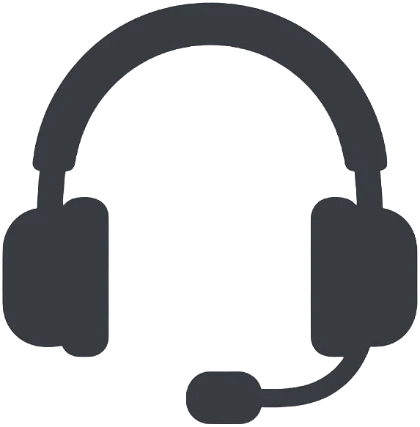
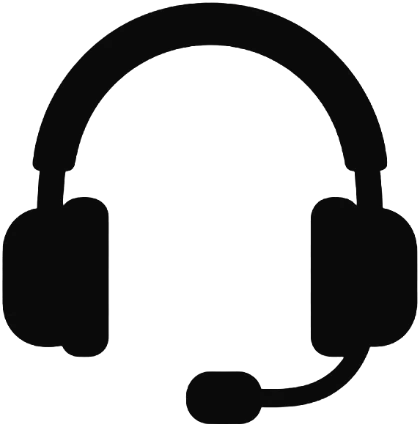
Phone palette: black 0A0A0A, white FFFFFF, orange FF5A00

diff --git a/client/src/styles/mobile.css b/client/src/styles/mobile.css
@@ -15,44 +15,226 @@
 .ptoast span { color: var(--c-muted); font-size: 14px; }
 @keyframes ptoast-in { from { transform: translate(-50%, -20px); opacity: 0; } }
 
-/* Фирменная палитра телефона: жёлтый F5CE0D, тёмный 121519, белый FFFFFF */
+/* Палитра телефона: только чёрный 0A0A0A, белый FFFFFF и оранжевый FF5A00.
+   Серые оттенки — это те же чёрный и белый с прозрачностью. */
 @media (max-width: 1023px) {
   :root {
-    --c-primary: #F5CE0D;
-    --c-focus: #F5CE0D;
-    --c-on-primary: #121519;
-    --c-ink: #121519;
+    --c-bg: #FFFFFF;
     --c-surface: #FFFFFF;
-    --c-active: #FFFFFF;
-    --plate-ink: #121519;
-    --plate-strip: #121519;
+    --c-ink: #0A0A0A;
+    --c-muted: rgb(10 10 10 / .55);
+    --c-line: rgb(10 10 10 / .08);
+    --c-line-strong: rgb(10 10 10 / .16);
+    --c-row-hover: rgb(10 10 10 / .04);
+    --c-soft: rgb(10 10 10 / .05);
+    --c-primary: #FF5A00;
+    --c-on-primary: #FFFFFF;
+    --c-signal: #FF5A00;
+    --c-ok: #0A0A0A;
+    --c-danger: #FF5A00;
+    --c-danger-solid: #FF5A00;
+    --c-focus: #FF5A00;
+    --c-nav: #FFFFFF;
+    --c-active: rgb(10 10 10 / .05);
+    --plate-bg: #FFFFFF;
+    --plate-ink: #0A0A0A;
+    --plate-strip: #0A0A0A;
+    --c-orange-soft: rgb(255 90 0 / .14);
+    --c-solid-soft: #F2F2F2;
+    --bar-expense: #0A0A0A;
+
+    --mf-bg: #FFFFFF; --mf-card: #FFFFFF; --mf-line: rgb(10 10 10 / .08);
+    --mf-ink: #0A0A0A; --mf-text: #0A0A0A; --mf-muted: rgb(10 10 10 / .55);
+    --mf-grid: rgb(10 10 10 / .08); --mf-zero: rgb(10 10 10 / .25);
+    --mf-chip: #0A0A0A; --mf-chip-hover: rgb(10 10 10 / .85); --mf-chip-ink: #FFFFFF;
+    --mf-pop: #FFFFFF; --mf-pop-ink: #0A0A0A; --mf-hover: rgb(10 10 10 / .05); --mf-disabled: rgb(10 10 10 / .3); --mf-day: #0A0A0A;
+    --mf-pop-shadow: 0 16px 40px rgb(10 10 10 / .14), 0 0 0 1px rgb(10 10 10 / .08);
   }
   :root[data-theme='dark'] {
-    --c-bg: #121519;
-    --c-surface: #1B1F25;
+    --c-bg: #0A0A0A;
+    --c-surface: #0A0A0A;
     --c-ink: #FFFFFF;
-    --c-muted: #9AA0A8;
-    --c-line: #262B32;
-    --c-line-strong: #333942;
-    --c-row-hover: #20252C;
-    --c-soft: #20252C;
-    --c-nav: #121519;
-    --c-active: #1B1F25;
+    --c-muted: rgb(255 255 255 / .55);
+    --c-line: rgb(255 255 255 / .08);
+    --c-line-strong: rgb(255 255 255 / .16);
+    --c-row-hover: rgb(255 255 255 / .05);
+    --c-soft: rgb(255 255 255 / .08);
+    --c-ok: #FFFFFF;
+    --c-nav: #0A0A0A;
+    --c-active: rgb(255 255 255 / .08);
+    --c-orange-soft: rgb(255 90 0 / .2);
+    --c-solid-soft: color-mix(in srgb, #FFFFFF 12%, #0A0A0A);
+    --bar-expense: #FFFFFF;
+
+    --mf-bg: var(--c-surface); --mf-card: var(--c-surface); --mf-line: rgb(255 255 255 / .16);
+    --mf-ink: #FFFFFF; --mf-text: #FFFFFF; --mf-muted: rgb(255 255 255 / .55);
+    --mf-grid: rgb(255 255 255 / .16); --mf-zero: rgb(255 255 255 / .3);
+    --mf-chip: color-mix(in srgb, #FFFFFF 12%, #0A0A0A); --mf-chip-hover: color-mix(in srgb, #FFFFFF 18%, #0A0A0A); --mf-chip-ink: #FFFFFF;
+    --mf-pop: color-mix(in srgb, #FFFFFF 14%, #0A0A0A); --mf-pop-ink: #FFFFFF; --mf-hover: color-mix(in srgb, #FFFFFF 20%, #0A0A0A); --mf-disabled: rgb(255 255 255 / .3); --mf-day: #FFFFFF;
+    --mf-pop-shadow: 0 16px 40px rgb(10 10 10 / .5);
   }
-  [data-theme='dark'] .ct { --ct-box: #20252C; }
-  [data-theme='dark'] .ct:hover .ct__visual,
-  [data-theme='dark'] .chip:not(.chip--on),
-  [data-theme='dark'] .status,
-  [data-theme='dark'] .avatar,
-  [data-theme='dark'] .modal__close { background: #262B32; }
-  [data-theme='dark'] thead th,
-  [data-theme='dark'] .sel__panel { background: #1E2329; }
-  [data-theme='dark'] .ct__edit,
-  [data-theme='dark'] .sel__item--active { background: #2C323A; }
-  [data-theme='dark'] .chip--on,
-  [data-theme='dark'] .chip--on:hover { color: #121519; }
-  :root[data-theme='dark'] { --mf-bg: #1B1F25; --mf-card: #1B1F25; --mf-line: #333942; --mf-chip: #262B32; --mf-chip-hover: #2C323A; --mf-pop: #2C323A; --mf-hover: #363D46; }
+
+  /* Кнопки */
+  :root .btn:hover,
+  :root .btn--danger:hover,
+  :root .btn--report:hover { background: color-mix(in srgb, #FF5A00 88%, #0A0A0A); }
+  :root .btn--quiet:hover,
+  :root .btn--ghost:hover,
+  :root .chip:hover,
+  :root .nav__link:hover { background: var(--c-soft); }
+  :root .btn--danger { color: #FFFFFF; }
+  :root .btn--ok,
+  :root .btn--ok:hover { background: var(--c-ink); color: var(--c-bg); }
+  :root .btn--report { background: #FF5A00; color: #FFFFFF; animation: none; box-shadow: 0 6px 18px -6px rgb(255 90 0 / .7); }
+  :root .btn--report__plus { background: #FFFFFF; color: #FF5A00; }
+
+  /* Номер машины */
+  :root .plate { background: #FFFFFF; color: #0A0A0A; border-color: #0A0A0A; }
+  :root .plate__num, :root .plate__region { border-color: #0A0A0A; }
+  :root .plate__stripe--blue,
+  :root .plate__stripe--green { background: #0A0A0A; }
+  :root .plate__flag b { color: #0A0A0A; }
+  :root[data-theme='dark'] .plate { box-shadow: 0 0 0 1px #FFFFFF; }
+
+  /* Статусы и метки: оранжевый — внимание и долг, чёрный/белый — норма */
+  :root .status { background: var(--c-soft); color: var(--c-ink); }
+  :root .status--wait,
+  :root .badge--wait,
+  :root .badge--warn,
+  :root .tx__icon--warn,
+  :root .tx__icon--out,
+  :root .notice--error,
+  :root .notice--idle,
+  :root .pay-status--wait,
+  :root .cpick__status--rent,
+  :root .rs-cell--part { background: var(--c-orange-soft); color: #FF5A00; }
+  :root .status--bad,
+  :root .badge--danger,
+  :root .pay-status--unpaid,
+  :root .rs-cell--unpaid,
+  :root .car-tab__count--alert { background: #FF5A00; color: #FFFFFF; }
+  :root .status--done,
+  :root .badge--ok,
+  :root .tx__icon--in,
+  :root .notice--ok,
+  :root .cpick__status,
+  :root .rs-cell--ahead { background: var(--c-soft); color: var(--c-ink); }
+  :root .status--fixed,
+  :root .badge--muted,
+  :root .avatar--muted { background: var(--c-soft); color: var(--c-muted); }
+  :root .rs-cell--paid { background: var(--c-ink); color: var(--c-bg); }
+  :root .rs-dot--paid { background: var(--c-ink); }
+  :root .rs-dot--part { background: rgb(255 90 0 / .45); }
+  :root .rs-dot--unpaid { background: #FF5A00; }
+  :root .rs-dot--ahead { background: var(--c-soft); border-color: var(--c-ink); }
+  :root .rs-hero { color: #FFFFFF; }
+  :root .rs-hero--bad { background: #FF5A00; }
+  :root .rs-hero--ok { background: #0A0A0A; }
+  :root[data-theme='dark'] .rs-hero--ok { background: var(--c-solid-soft); }
+  :root .stat--accent .stat__label,
+  :root .stat--accent .stat__hint,
+  :root .stat--accent .stat__value small { color: rgb(255 255 255 / .8); }
+  :root .stat--accent .stat__value { color: #FFFFFF; }
+
+  /* Карточки, календарь, переключатели */
+  :root .ct { --ct-box: var(--c-solid-soft); }
+  :root .ct:hover .ct__visual { background: var(--c-solid-soft); }
+  :root .ct--alert .ct__visual { box-shadow: inset 0 0 0 2px #FF5A00; }
+  :root .ct__edit { background: var(--c-surface); color: var(--c-ink); }
+  :root .ct__edit:hover { background: var(--c-solid-soft); }
+  :root .car-card:hover,
+  :root a.person:hover,
+  :root .person--link:hover { border-color: var(--c-line-strong); box-shadow: 0 6px 18px rgb(10 10 10 / .08); }
+  :root .car-card--alert { border-color: #FF5A00; }
+  :root .avatar { background: var(--c-soft); color: var(--c-ink); }
+  :root .panel--yellow { background: var(--c-orange-soft); border-color: rgb(255 90 0 / .4); }
+  :root .seg { background: var(--c-soft); }
+  :root .seg__btn { color: var(--c-muted); }
+  :root .seg__btn--on { background: var(--c-ink); color: var(--c-bg); box-shadow: none; }
+  :root .chip { background: var(--c-surface); border-color: var(--c-line-strong); color: var(--c-ink); }
+  :root .chip--on,
+  :root .chip--on:hover { background: var(--c-ink); border-color: var(--c-ink); color: var(--c-bg); }
+  :root .cal__day--on,
+  :root .cal__day--on:hover:not(:disabled) { background: #FF5A00; color: #FFFFFF; }
+  :root .cal__day--new { box-shadow: inset 0 0 0 2px var(--c-ink); }
+  :root .cal__day--idle,
+  :root .cal__day--idle:hover:not(:disabled) { background: var(--c-orange-soft); color: #FF5A00; }
+  :root .dh__item--now .dh__dot { background: #FF5A00; box-shadow: 0 0 0 4px rgb(255 90 0 / .18); }
+  :root .dh__item--hit .dh__body { box-shadow: inset 3px 0 0 #FF5A00; }
+  :root .bar--expense { background: var(--bar-expense); }
+  :root .tx--pending { background: linear-gradient(90deg, var(--c-orange-soft), transparent); }
+  :root .modal__close { background: var(--c-soft); color: var(--c-ink); }
+  :root[data-theme='dark'] .modal__panel { background: var(--c-surface); }
+  :root .table__th,
+  :root thead th { background: var(--c-solid-soft); }
+  :root .sel__panel { background: var(--c-surface); }
+  :root .sel__item--active { background: var(--c-soft); }
+  :root .sel__item--on.sel__item--active { background: var(--c-orange-soft); }
+
+  /* Месячные показатели */
+  :root .mf-delta--up { color: var(--c-ink); }
+  :root .mf-delta--down { color: #FF5A00; }
+  :root .mf-bar--in { background: var(--c-ink); }
+  :root .mf-bar--out { background: #FF5A00; }
+  :root .mf-alert { background: #FF5A00; color: #FFFFFF; }
+
+  /* Колокольчик и баннер обновления */
+  :root .bell { background: var(--c-ink); color: var(--c-bg); }
+  :root .bell--active { box-shadow: 0 0 0 3px var(--c-bg), 0 0 0 5px var(--c-ink); }
+  :root .bell__count { background: #FF5A00; color: #FFFFFF; }
+  :root .update-banner { background: #0A0A0A; color: #FFFFFF; }
+  :root[data-theme='dark'] .update-banner { box-shadow: 0 0 0 1px rgb(255 255 255 / .16); }
+
+  /* Экраны водителя */
+  :root .dsec__icon--tg,
+  :root .dsec__icon--map { background: var(--c-ink); color: var(--c-bg); }
+  :root .dnet:not(.dnet--minus) { background: var(--c-ink); color: var(--c-bg); }
+  :root .dnet--minus { background: #FF5A00; color: #FFFFFF; }
+  :root .pushcard:not(.pushcard--muted) { background: #FF5A00; color: #FFFFFF; box-shadow: 0 8px 22px rgb(255 90 0 / .25); }
+  :root .pushcard__error { color: #0A0A0A; }
+  :root .pushcard__btn { background: #0A0A0A; border-color: #0A0A0A; color: #FFFFFF; }
+  :root .pushguide__num { background: #FF5A00; color: #FFFFFF; }
+  :root .pushguide__key { background: var(--c-surface); color: #FF5A00; }
+  :root .pushguide__arrow { color: #FF5A00; text-shadow: 0 2px 10px rgb(10 10 10 / .5); }
+  :root .earn-actions .earn-actions__in { background: var(--c-ink); border-color: var(--c-ink); color: var(--c-bg); }
+  :root .earn-actions .earn-actions__out { background: #FF5A00; border-color: #FF5A00; color: #FFFFFF; }
+  :root .shero { background: #FF5A00; color: #FFFFFF; box-shadow: 0 12px 28px rgb(255 90 0 / .28); }
+  :root .shero__btn { background: var(--c-ink); border-color: var(--c-ink); color: var(--c-bg); }
+  html:root .eitem__icon,
+  html:root .kind-btn--on { background: var(--c-orange-soft); }
+  html:root .shero__btn { background: var(--c-ink); border-color: var(--c-ink); color: var(--c-bg); }
+  :root[data-theme='dark'] .person { border-color: var(--c-line-strong); }
+  :root .person .avatar { background: var(--c-soft); color: var(--c-ink); }
+  :root .person .avatar--muted { background: var(--c-soft); color: var(--c-muted); }
+  :root .eitem__plus { color: var(--c-ink); }
+  :root .qchip--on { color: #FFFFFF; }
+  :root .kmbadge { background: var(--c-soft); }
+  :root .kmbadge b { color: var(--c-ink); }
+  :root .kmbadge--bad { background: var(--c-orange-soft); color: #FF5A00; }
+  :root .mweek__col > span:not(.mweek__empty) { background: #FF5A00; }
+  :root .stoast { background: #0A0A0A; color: #FFFFFF; }
+  :root[data-theme='dark'] .stoast { box-shadow: 0 0 0 1px rgb(255 255 255 / .16), 0 12px 30px rgb(10 10 10 / .5); }
+  :root .stoast__check { background: #FF5A00; }
+  :root .odo { background: #0A0A0A; box-shadow: 0 0 0 3px #FF5A00; }
+  :root .odo__cell { background: #0A0A0A; color: #FFFFFF; box-shadow: inset 0 0 0 1px rgb(255 255 255 / .12); }
+  :root .odo__cell::after { background: none; }
+  :root .odo__cell--lead,
+  :root .odo--ghost .odo__cell { color: rgb(255 255 255 / .35); }
+  :root .kgauge__needle line { stroke: #FF5A00; }
+  :root .xhead,
+  :root .xhead--gas,
+  :root .xhead--charge,
+  :root .xhead--wash,
+  :root .xhead--lunch,
+  :root .xhead--other { --k: #FF5A00; }
+  :root .xhead__per { color: var(--c-ink); }
+  :root .tank__fill,
+  :root .tank__fill--gas,
+  :root .tank__fill--charge { background: #FF5A00; }
+  :root .msuccess__check { background: #FF5A00; color: #FFFFFF; box-shadow: 0 0 0 0 rgb(255 90 0 / .5); animation: bigCheck .6s cubic-bezier(.3, 1.8, .5, 1) both, ring-o 1.2s .3s ease-out; }
+  :root .msuccess__km { color: #FF5A00; }
 }
+@keyframes ring-o { to { box-shadow: 0 0 0 28px rgb(255 90 0 / 0); } }
 
 @media (max-width: 1023px) {
   .topbar {
@@ -131,10 +313,10 @@
   .mtile__img[src$='/cars.webp'] { width: 100%; }
   .mtile__img[src$='/summary.webp'],
   .mtile__img[src$='/drivers.webp'],
-  .mtile__img[src$='/cars.webp'] { filter: drop-shadow(0 0 .6px rgb(18 21 25 / .35)) drop-shadow(0 0 .6px rgb(18 21 25 / .35)); }
+  .mtile__img[src$='/cars.webp'] { filter: drop-shadow(0 0 .6px rgb(10 10 10 / .35)) drop-shadow(0 0 .6px rgb(10 10 10 / .35)); }
   [data-theme='dark'] .mtile__img[src] { filter: drop-shadow(0 0 .7px rgb(255 255 255 / .7)) drop-shadow(0 0 .7px rgb(255 255 255 / .7)); }
   [data-theme='dark'] .mtile__img[src$='/dispatchers.webp'],
-  [data-theme='dark'] .mtile__img[src$='/owners.webp'] { filter: brightness(0) invert(1); opacity: .92; }
+  [data-theme='dark'] .mtile__img[src$='/owners.webp'] { filter: brightness(0) invert(1); }
 
   .mtile--wide { grid-column: span 2; }
   .mtile--wide .mtile__card { min-height: 124px; }

diff --git a/client/src/components/PeriodFinance.jsx b/client/src/components/PeriodFinance.jsx
@@ -67,7 +67,7 @@ export default function PeriodFinance() {
                 <div key={c.category} style={{ marginBottom: 10 }}>
                   <div className="car-card__row"><span>{CATEGORY_LABELS[c.category] || c.category}</span><b>{fmtMoney(c.total)} сум</b></div>
                   <div style={{ height: 6, background: 'var(--c-soft)', borderRadius: 3, marginTop: 4 }}>
-                    <div style={{ width: `${(c.total / maxCategory) * 100}%`, height: '100%', background: '#F08A80', borderRadius: 3 }} />
+                    <div style={{ width: `${(c.total / maxCategory) * 100}%`, height: '100%', background: 'var(--bar-expense, #F08A80)', borderRadius: 3 }} />
                   </div>
                 </div>
               ))}

diff --git a/client/src/components/ThemeToggle.jsx b/client/src/components/ThemeToggle.jsx
@@ -11,7 +11,7 @@ export default function ThemeToggle({ className = '' }) {
 
   useEffect(() => {
     document.documentElement.dataset.theme = theme;
-    document.querySelector('meta[name="theme-color"]')?.setAttribute('content', theme === 'dark' ? '#121519' : '#F2F3F5');
+    document.querySelector('meta[name="theme-color"]')?.setAttribute('content', theme === 'dark' ? '#0A0A0A' : '#FFFFFF');
   }, [theme]);
 
   function toggle() {

diff --git a/client/index.html b/client/index.html
@@ -3,7 +3,7 @@
 <head>
   <meta charset="utf-8">
   <meta name="viewport" content="width=device-width, initial-scale=1, viewport-fit=cover">
-  <meta name="theme-color" content="#1C1C1C">
+  <meta name="theme-color" content="#0A0A0A">
   <meta name="mobile-web-app-capable" content="yes">
   <meta name="apple-mobile-web-app-capable" content="yes">
   <meta name="apple-mobile-web-app-status-bar-style" content="black-translucent">

diff --git a/client/src/pages/DriverSections.jsx b/client/src/pages/DriverSections.jsx
@@ -332,7 +332,7 @@ function KmGauge({ km }) {
   );
 }
 
-const CONFETTI = ['#FFD000', '#1E9E4A', '#FF5A5F', '#3D7BFF', '#FFFFFF', '#FF9F1C'];
+const CONFETTI = ['#FF5A00', '#0A0A0A', '#FF5A00', '#0A0A0A', '#FFFFFF', '#FF5A00'];
 
 function SavedBurst({ line }) {
   return (
